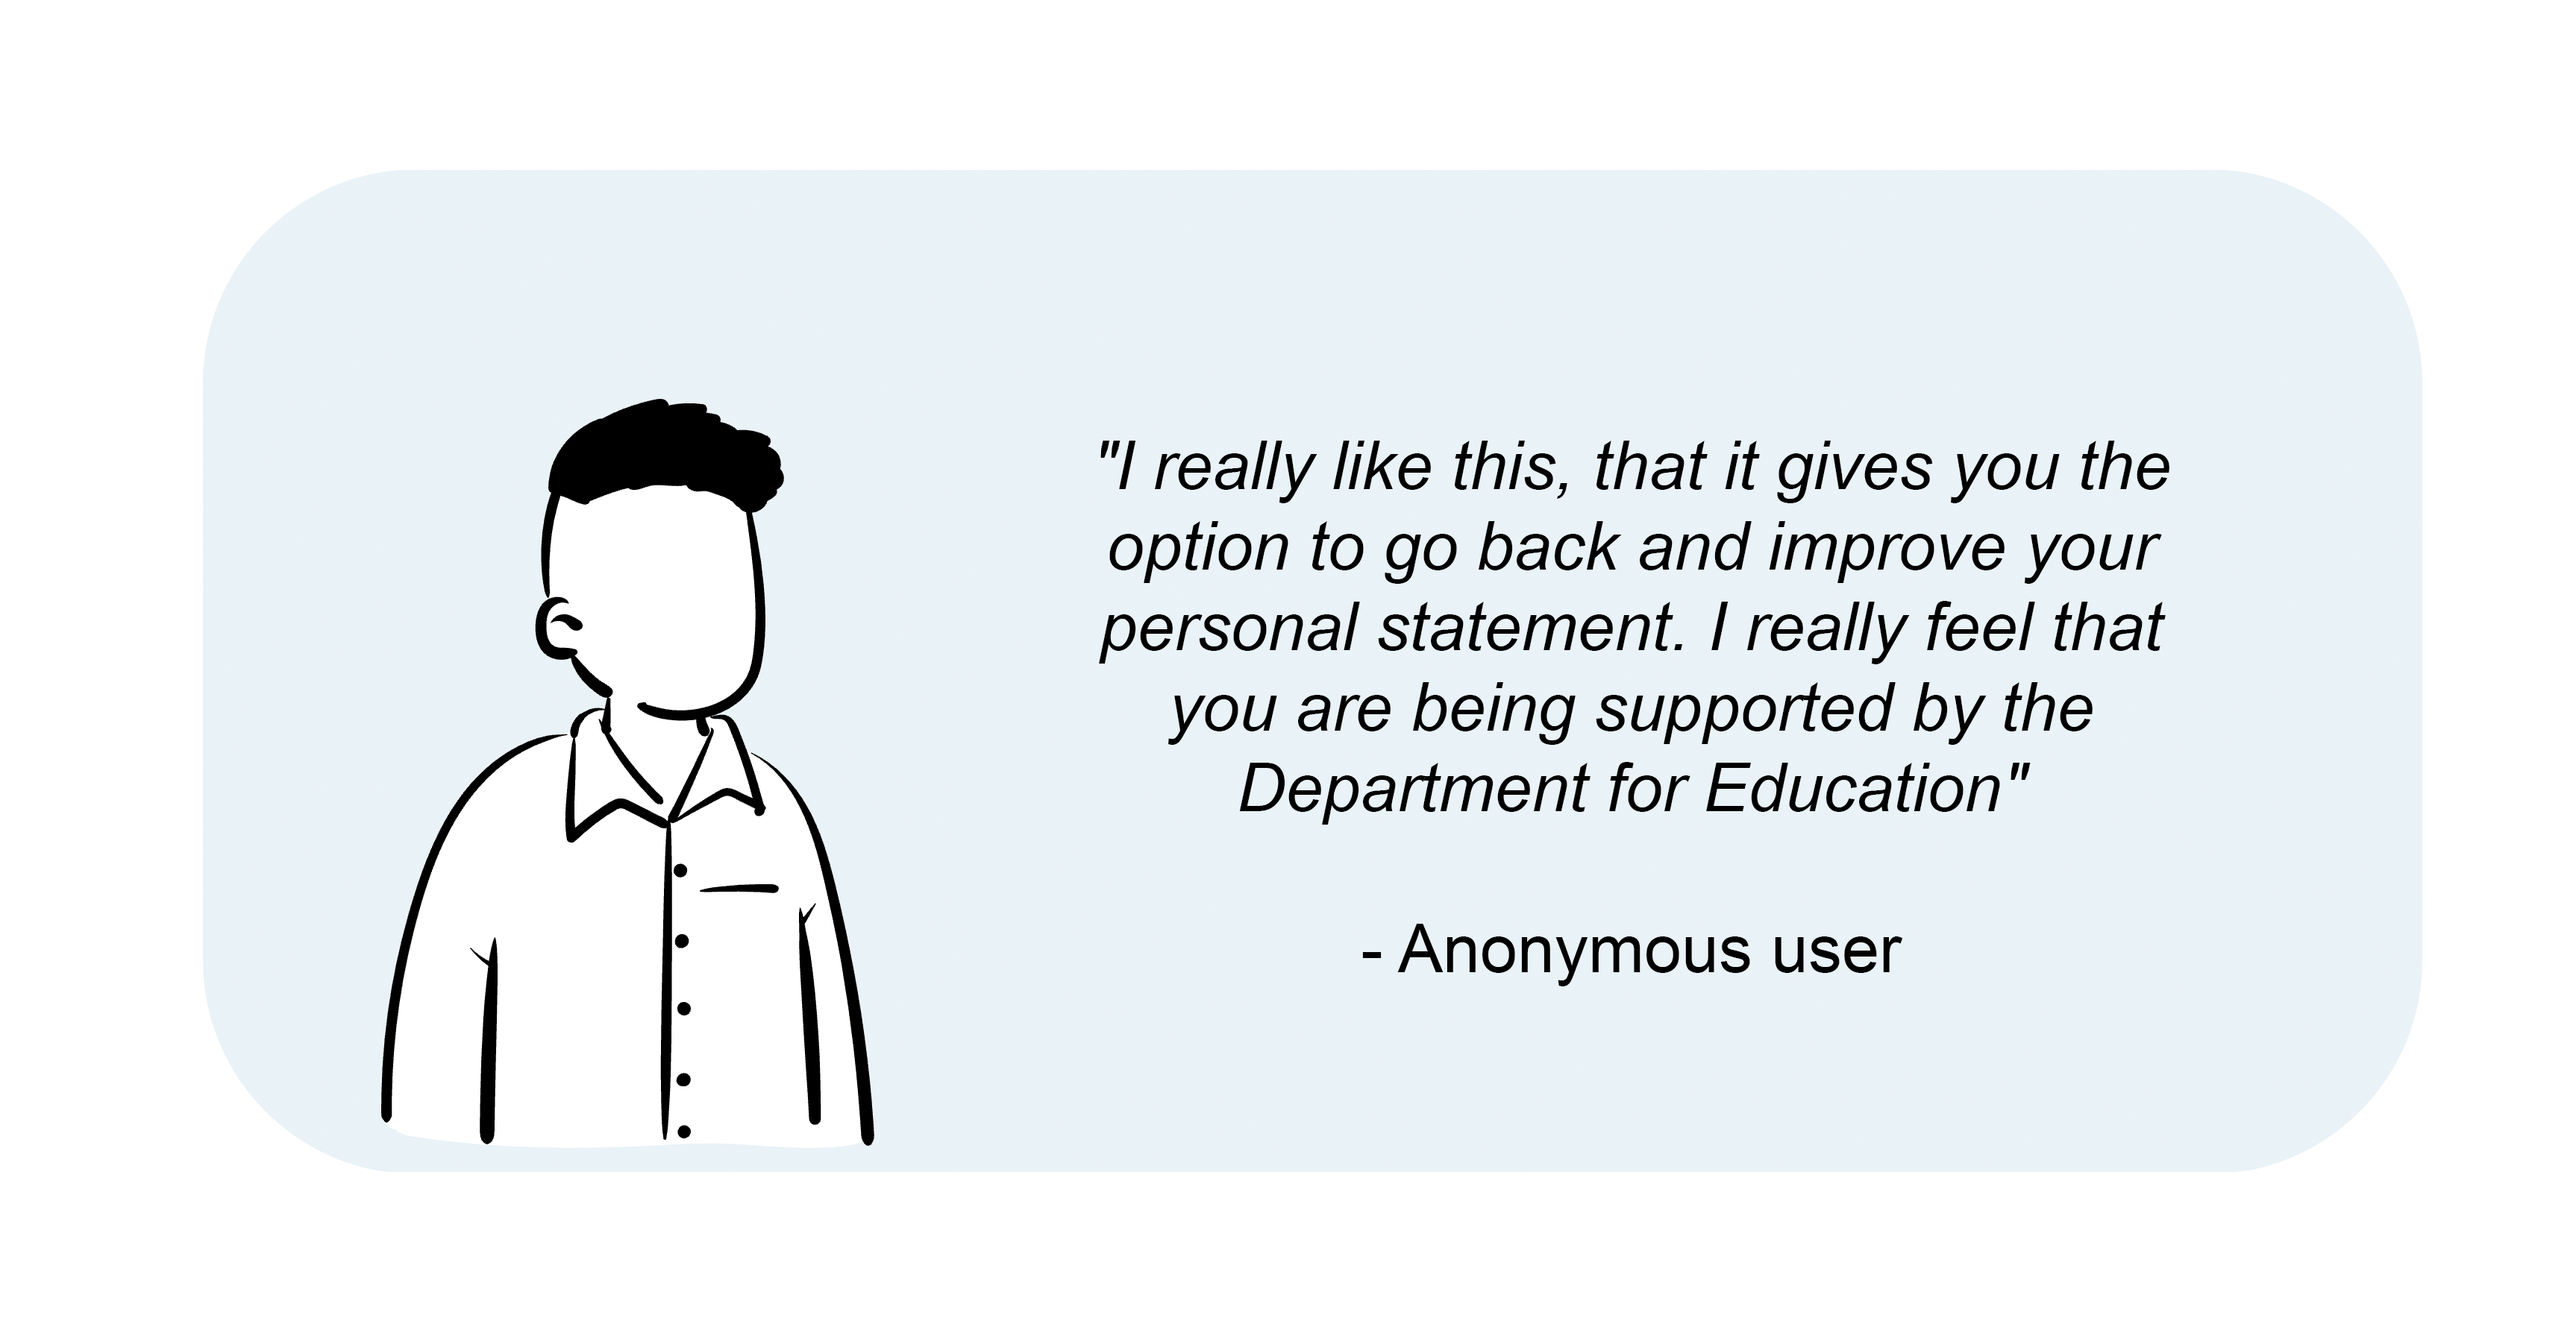
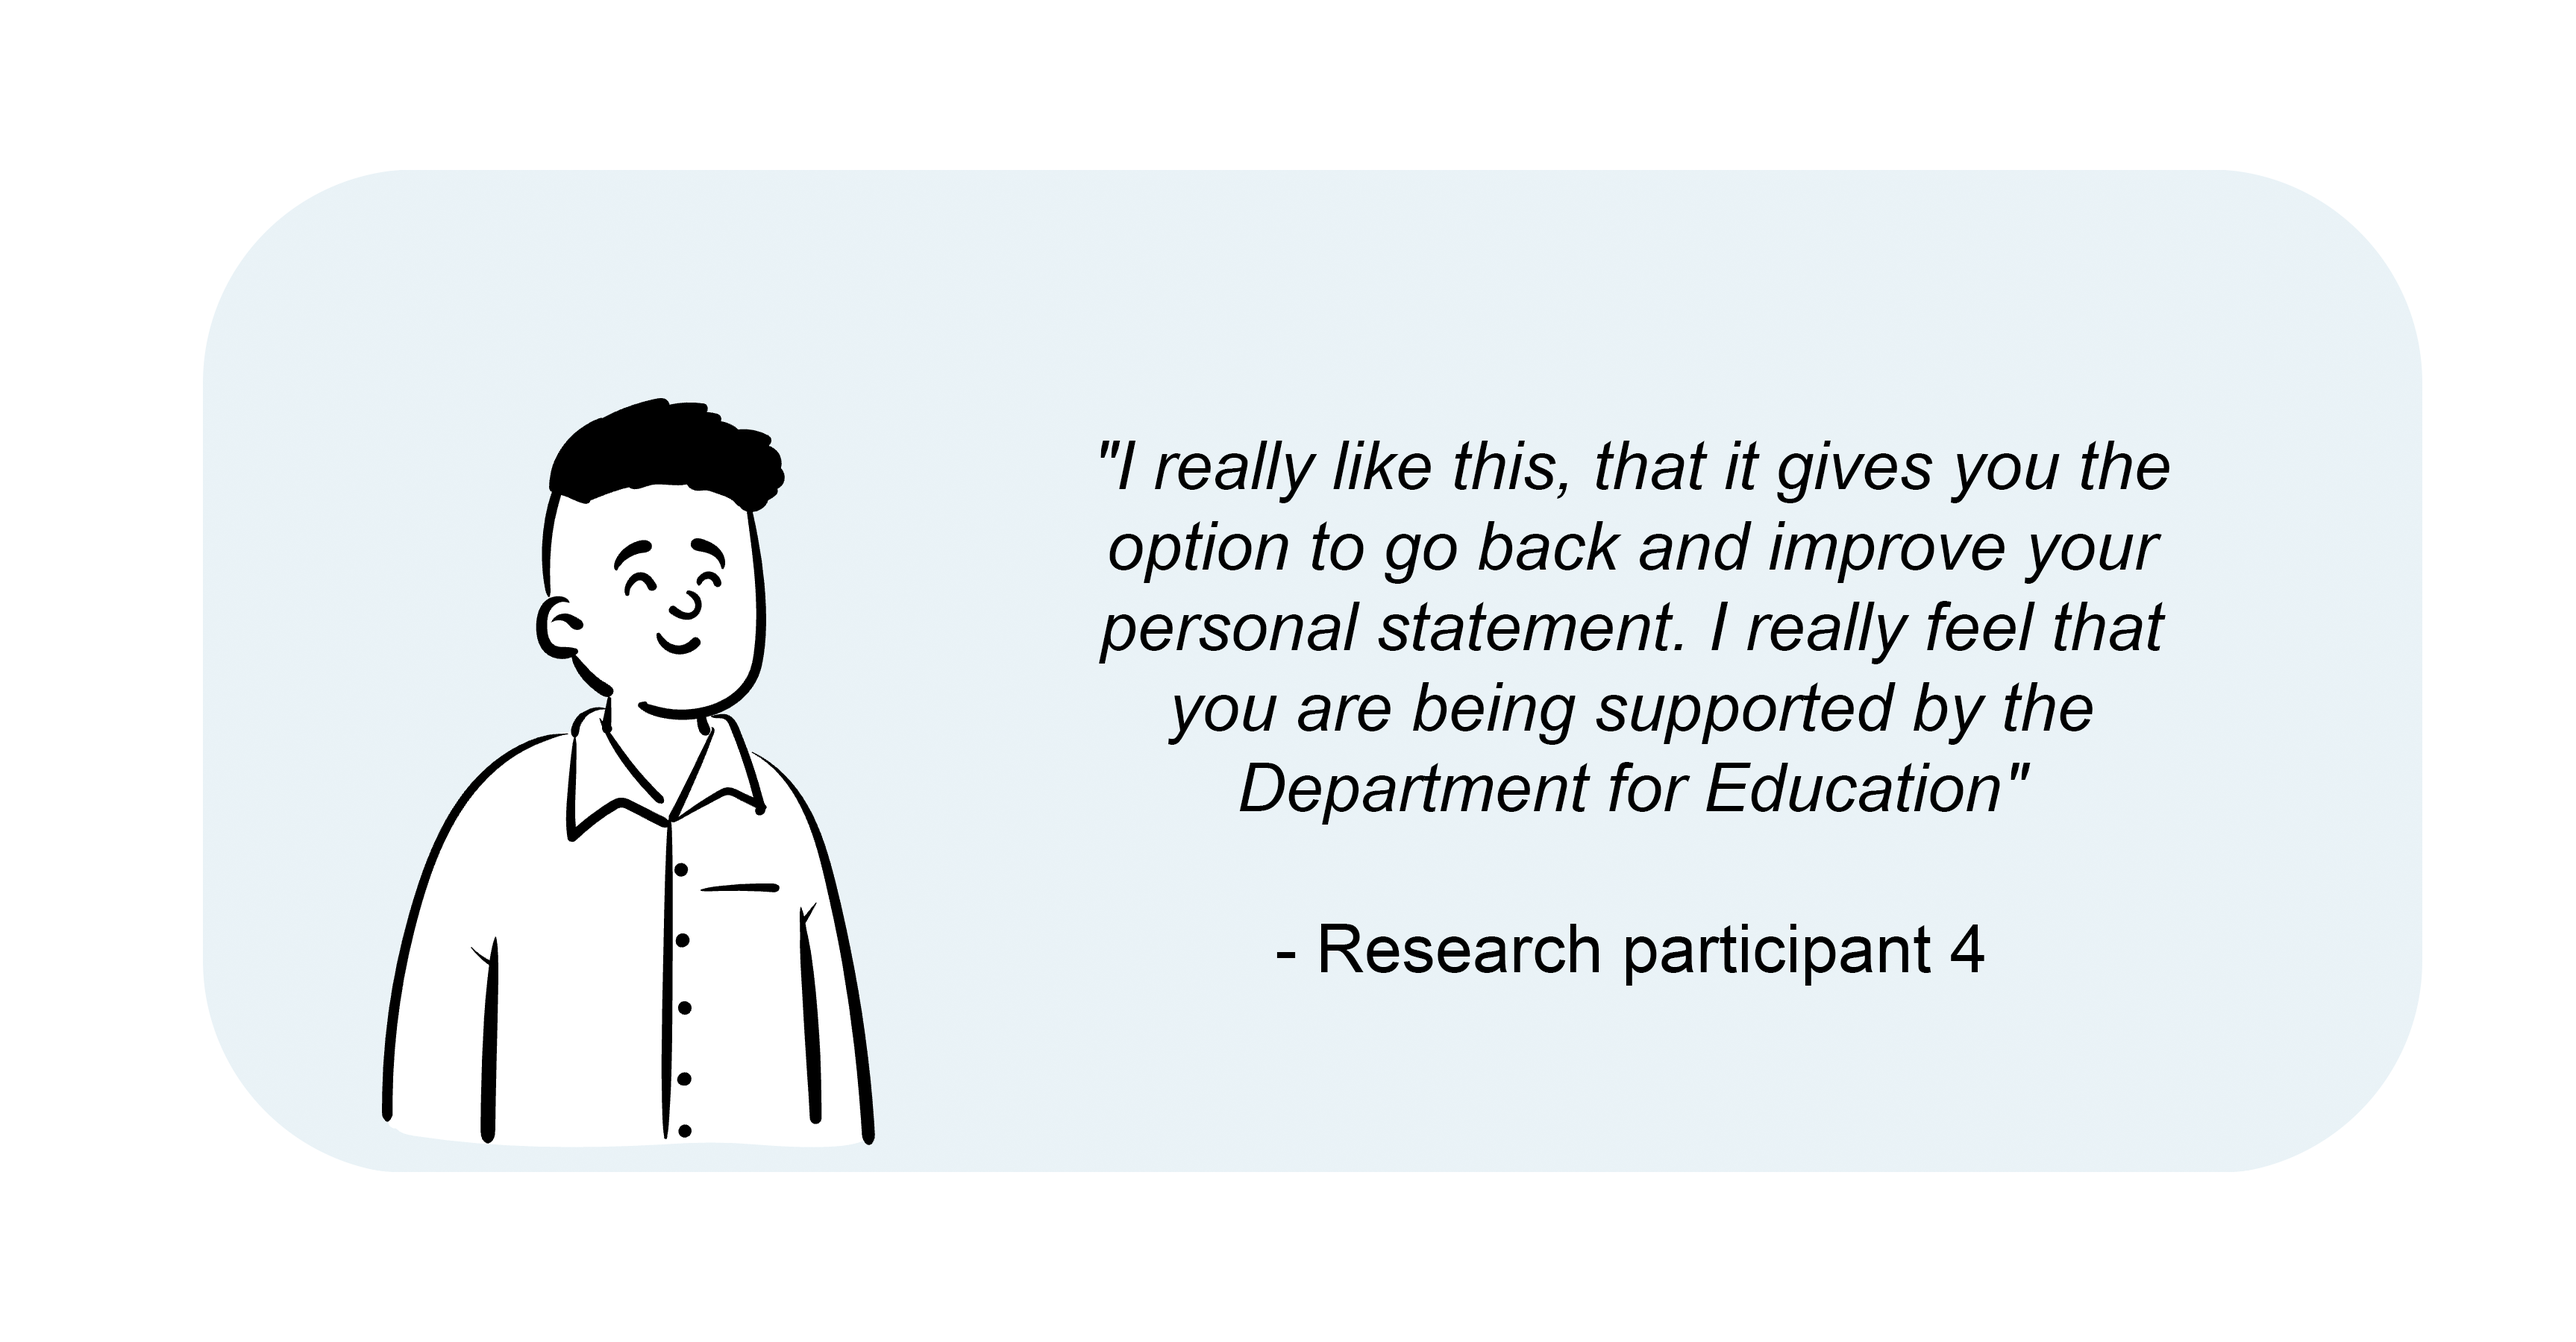
replaced user quotes names

Changed region(s): [[0.4958, 0.6844, 0.7747, 0.7467], [0.2169, 0.4044, 0.2789, 0.4978], [0.2789, 0.56, 0.3099, 0.5911]]

diff --git a/app/posts/apply-for-teacher-training/2023-11-21-interruption-module.md b/app/posts/apply-for-teacher-training/2023-11-21-interruption-module.md
@@ -43,11 +43,11 @@ We conducted user research sessions in November 2023. We found that:
 
 - users were attracted to read the message because ‘graphically it stood out’.
 
-> "as someone who does have bad eyesight it's visually clear to see." - P4
+> "as someone who does have bad eyesight it's visually clear to see." - research participant 4
 
 - most users were drawn to the statistic ‘90% of successful candidates write about 500 words or more’.
 
-> "What stands out to me is '90% of successful candidates write this." - P2
+> "What stands out to me is '90% of successful candidates write this." - research participant 2
 
 - all users understood that the purpose of the message was to encourage candidates to write more to increase their chance of getting and offer
 
@@ -57,9 +57,9 @@ We conducted user research sessions in November 2023. We found that:
 
 - the new page was perceived as ‘supporting’ candidates to do well
 
-> "I really like this, that it gives you the option to go back and improve your PS. I really feel that you are being supported by the Department for Education" - P4
+> "I really like this, that it gives you the option to go back and improve your PS. I really feel that you are being supported by the Department for Education" - research participant 4
 
-> "Most things I have applied for e.g. Uni applications, don't give guidance. It feels like they care, and they want you to do well and hopefully become a successful candidate from it." - P3
+> "Most things I have applied for e.g. Uni applications, don't give guidance. It feels like they care, and they want you to do well and hopefully become a successful candidate from it." - research participant 3
 
 ## Further considerations
 
